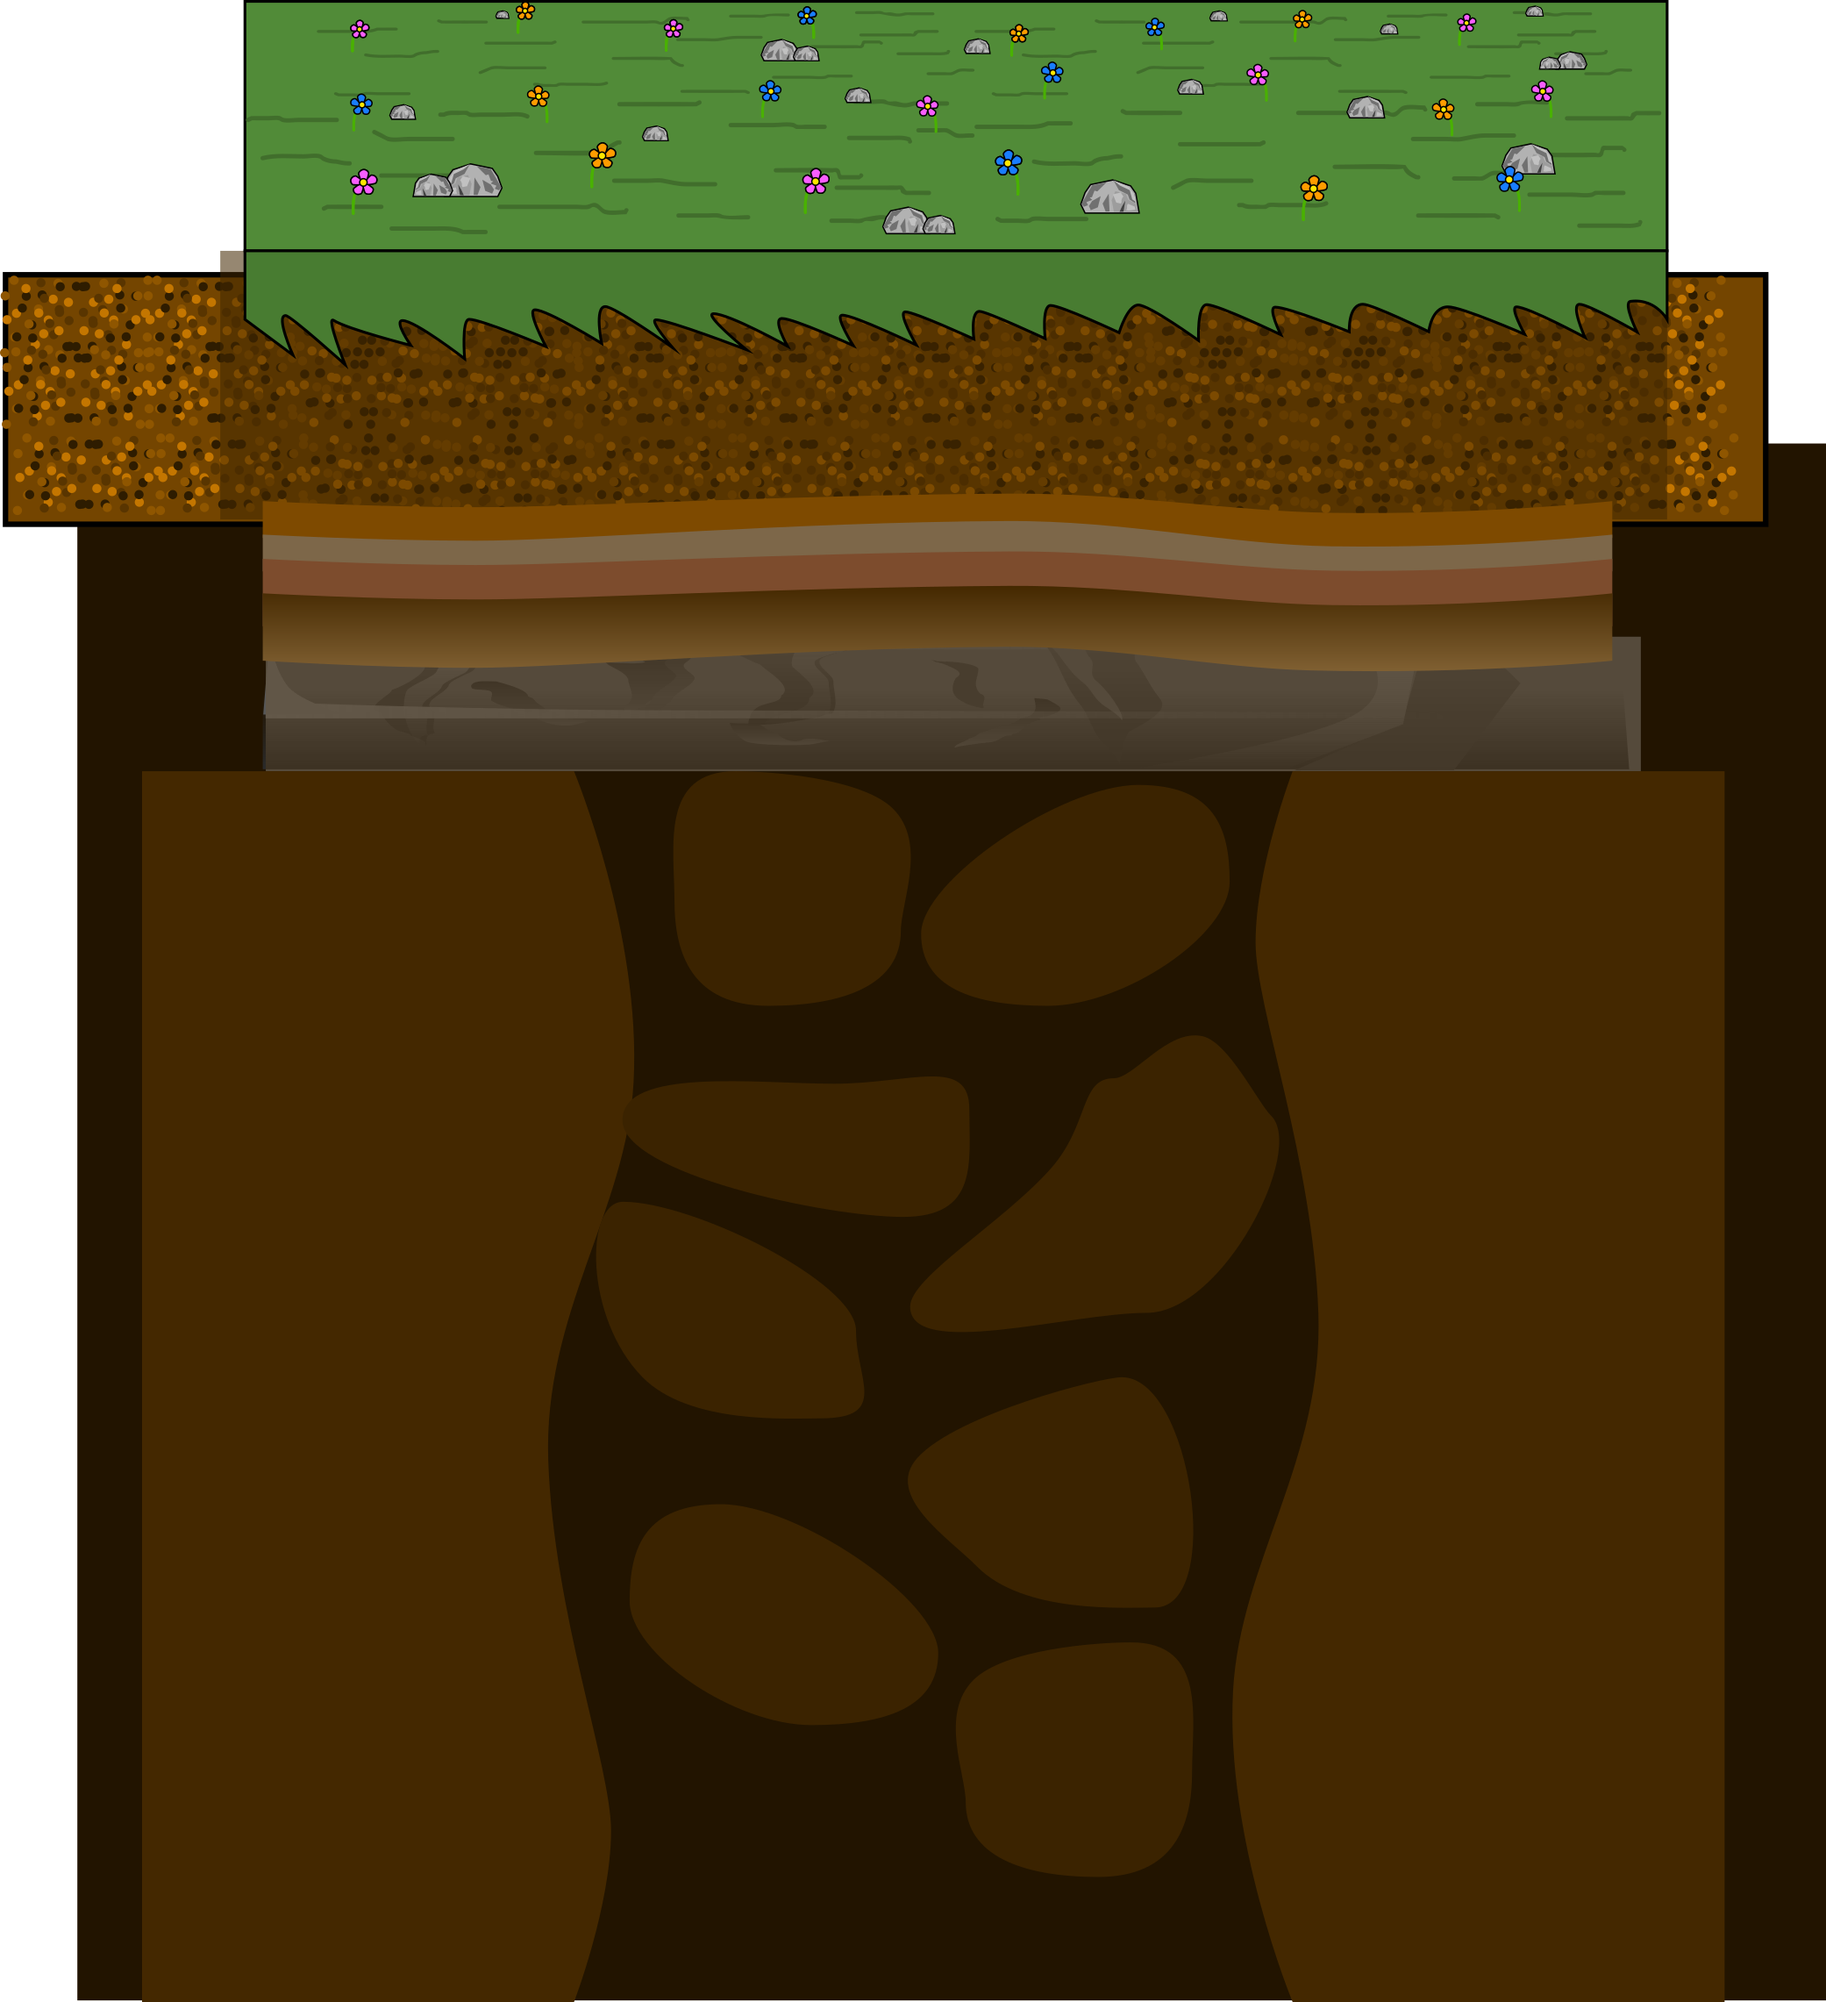
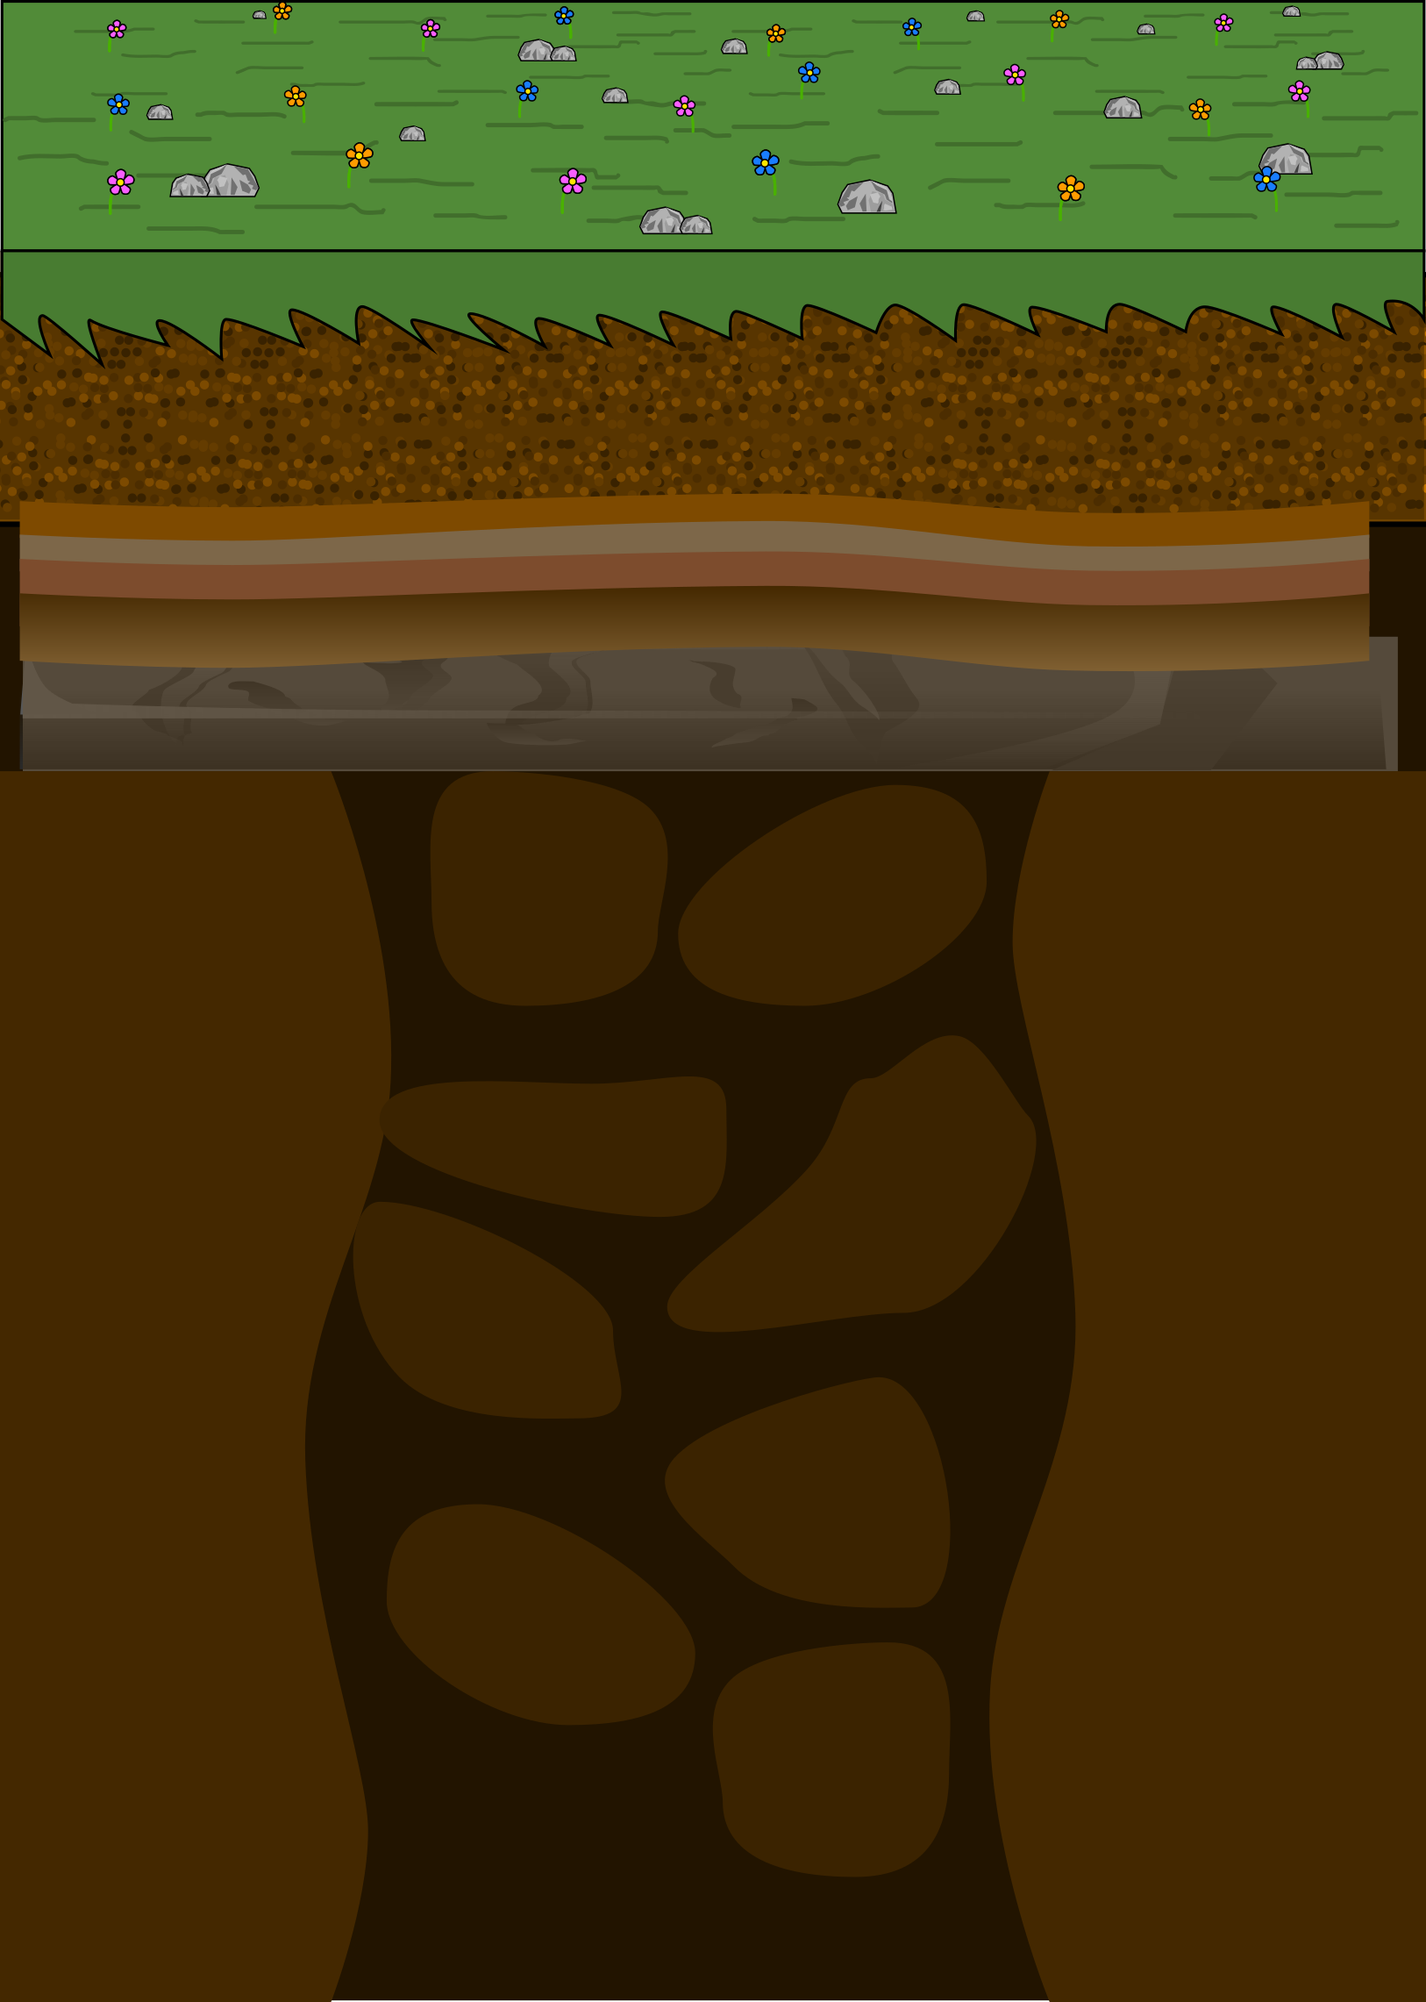
I cropped it, because im so cool

diff --git a/index.html b/index.html
@@ -3,8 +3,7 @@
     <link href="style.css" rel="stylesheet">
 </head>
 <body>
-    <img src="toplayer.png" width>
-    <img src="middlelayer.png">
-    <img src="bottomlayer.png">
-    
+    <img src="toplayer.png" width="400px" class="top"><br>
+    <img src="middlelayer.png" width="400px" class="middle"><br>
+    <img src="bottomlayer.png" width="400px" class="bottom"><br>
 </body>
